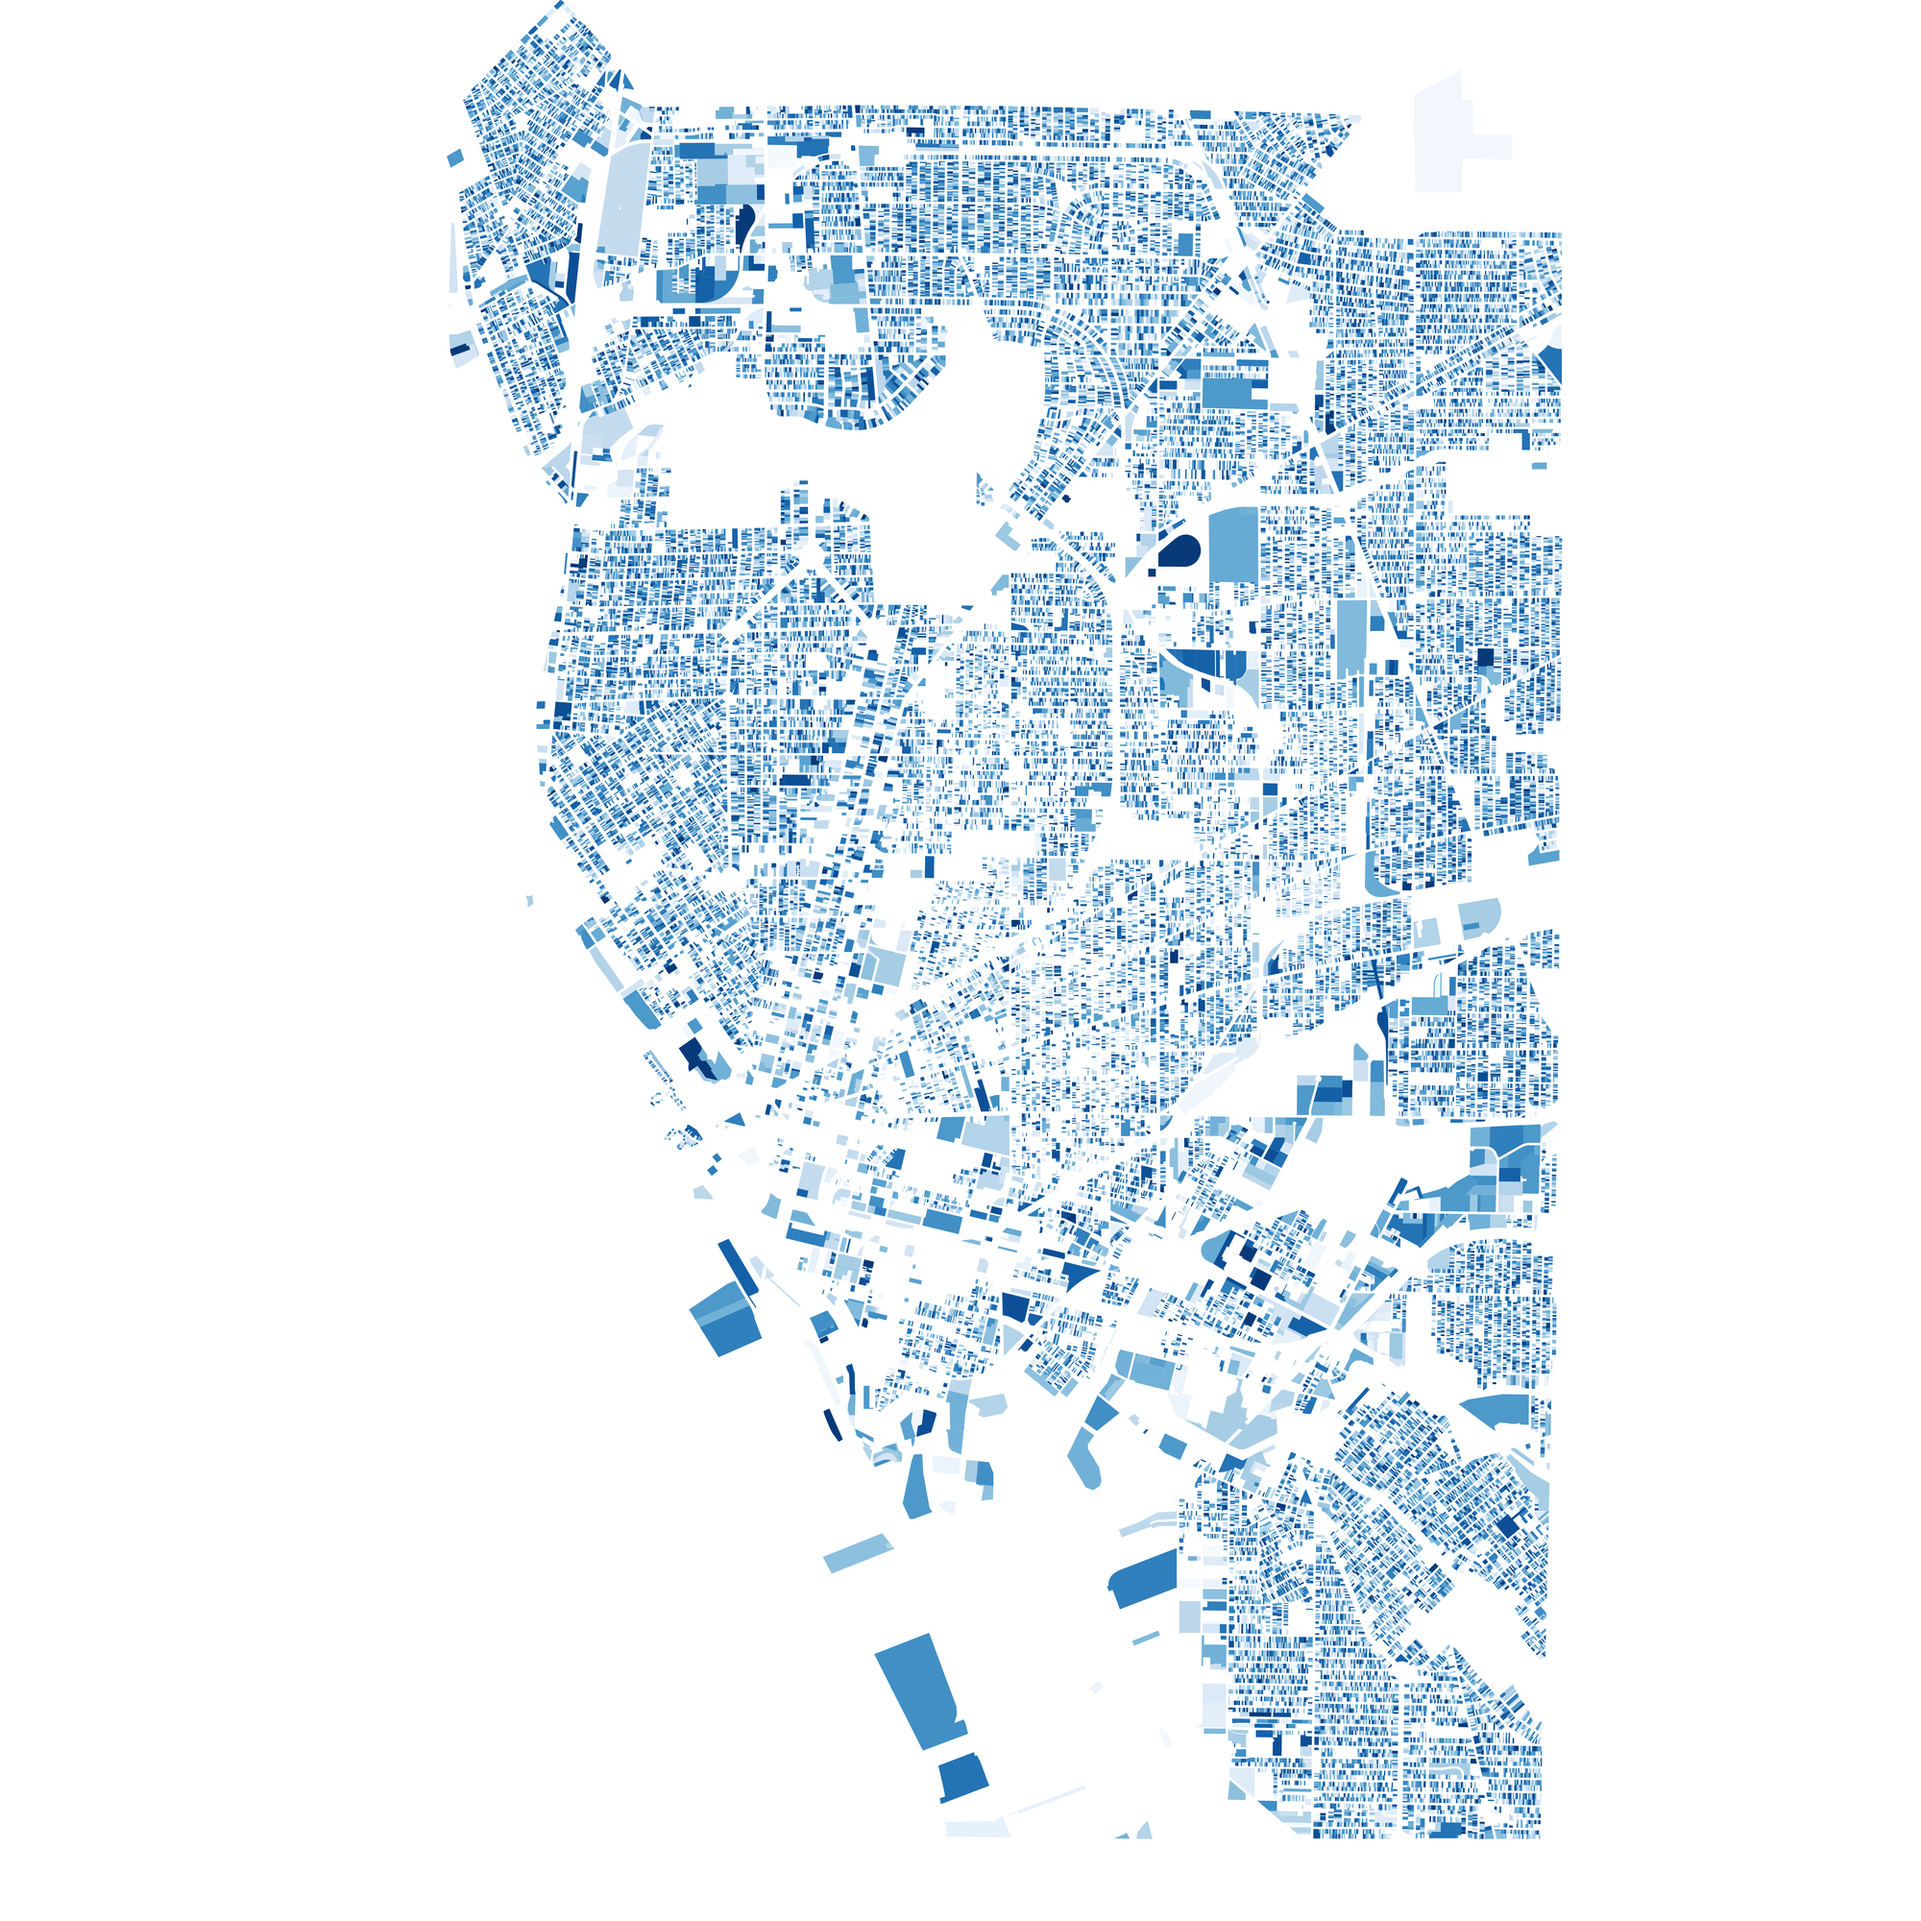
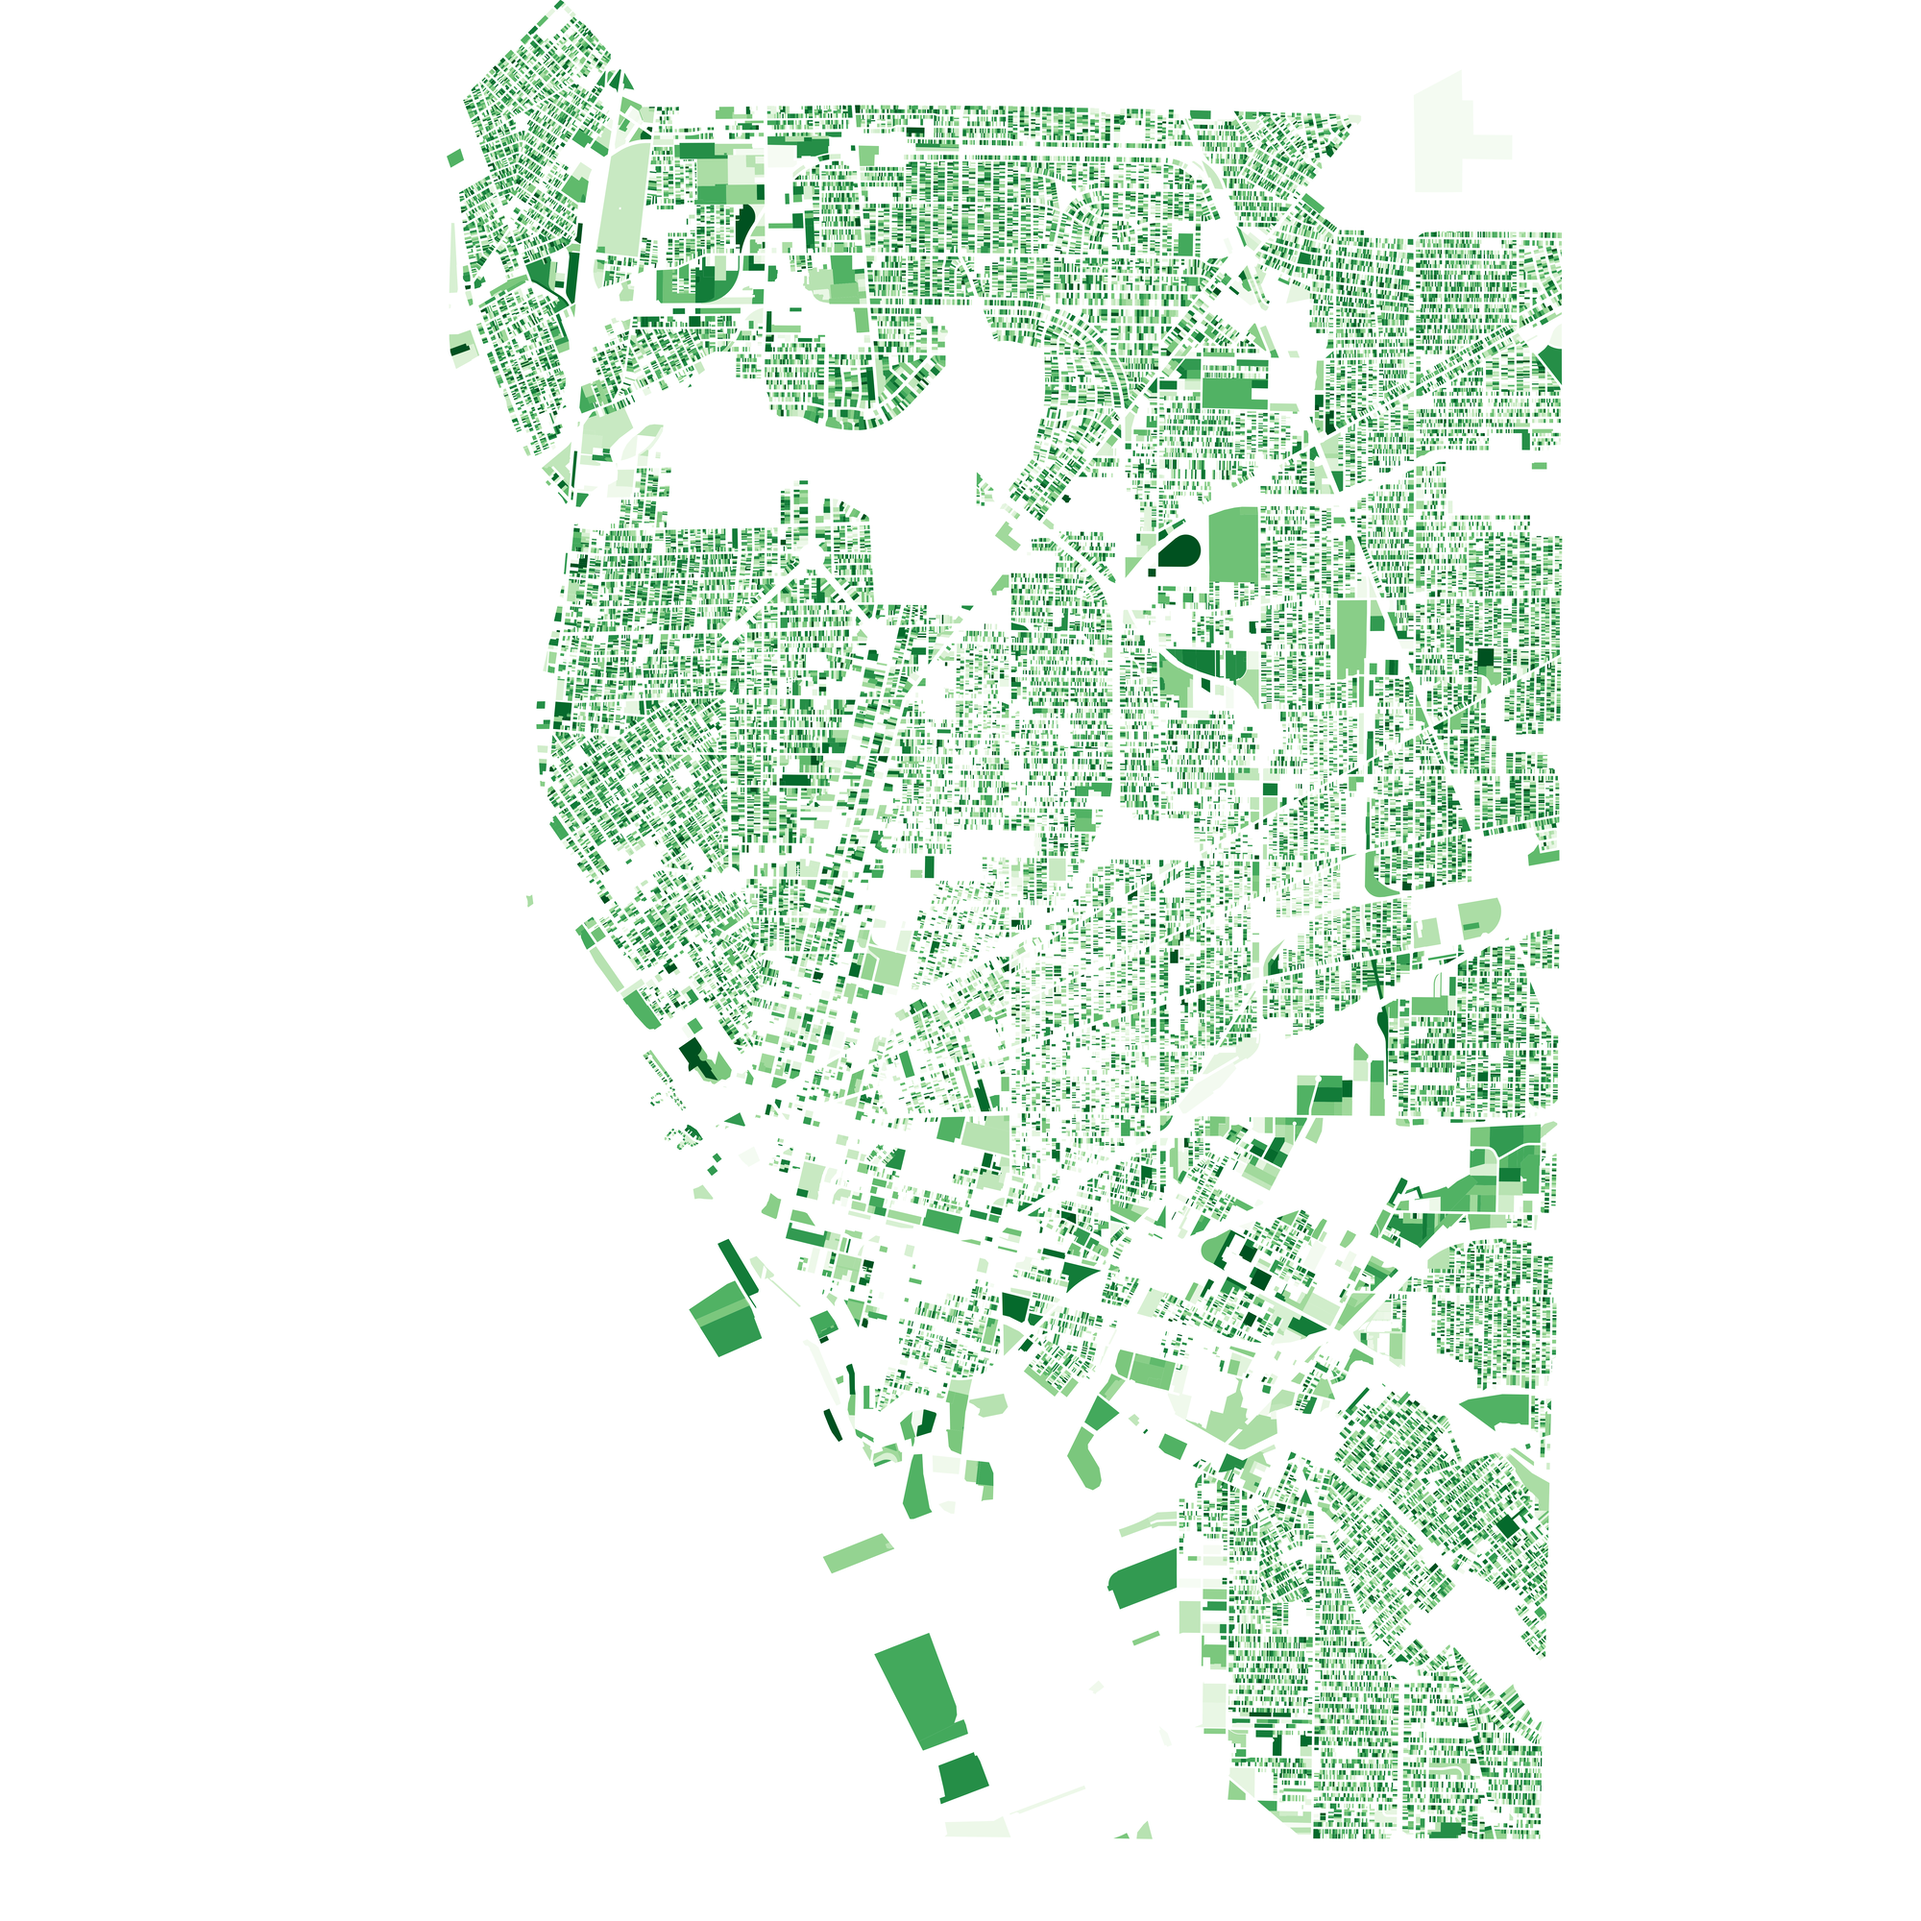
buffalo property page to a working state

Changed region(s): [[0.217, 0.0, 0.837, 0.961], [0.465, 0.837, 0.527, 0.93]]

diff --git a/buffalo-properties/README.md b/buffalo-properties/README.md
@@ -1,19 +1,19 @@
 # Buffalo Property Data
-Buffalo provides great geospacial data through their [open data program](https://data.buffalony.gov/). But, as of this writing, the city does not have a facility to access property assessment data. Luckily, the city's [Online Assessment Role System (OARS)](https://buffalo.oarsystem.com/) provides a lot of tax, assessment and structure information.
+Buffalo provides great geospacial data through their [open data program](https://data.buffalony.gov/). But, as of this writing, the city does not have a facility to access property assessment data. Luckily, the city's [Online Assessment Role System (OARS)](https://buffalo.oarsystem.com/) provides a lot of tax, assessment and structure information. For this page, data was obtained from the **OARS** site in late 2018, then again in late 2019 after the city underwent a reassessment.
 
 ## Buffalo Parcels from Open Data Buffalo
+Here is a map of the raw parcel data obtained from data.buffalony.gov
 ![Map of Parcels from Open Data Buffalo](./scaled/Green_Code_Zoning_2017_data.png)
 
-## Open Data Buffalo Parcels without OARS Data
+And here's a map of those parcels color-coded based on the *use code* pulled from the **OARS** data
+![Map of all buffalo parcels color-coded by OARS use code](./scaled/use-categories.png)
+TODO (categorical legend with counts)
+
+Note some rights of way and various other parcels do not have **OARS** data associated with them:
 ![Map of Open Data Buffalo Parcels without OARS Data](./scaled/no_oars_data.png)
-TODO change this from orange to medium gray.
 
-## All buffalo parcels color-coded by OARS use code
-![Map of all buffalo parcels color-coded by OARS use code](./scaled/all-alias.rsvg-convert.png)
-TODO (categorical legend with counts), change colors to be more logical and use the same medium gray as above.
-
-# Single family homes: Assessed Value
-## Assessed Fair Market Value for single family homes
+## Single family homes: Assessed Value
+### Assessed Fair Market Value for single family homes
 ![Map of single family homes in Buffalo color-coded by Assessed price](./scaled/single-family-assessment.png)
 ```
 cat ./final1.ndjson | ndjson-filter 'd.properties && d.properties.oars_props && d.properties.oars_props.use == "210 - 1 Family Res"' | ndjson-map "parseFloat(d.properties.oars_props.assessment.fmv.replace(/[\$,]/g, ''))" | dtk quantile 100 | tee percentiles/single-family-assessment.txt
@@ -22,7 +22,7 @@ mkgeo-render data/buffalo/oars-2019/final1.ndjson -f 'd.properties && d.properti
 TODO (scale legend has counts)
 ```
 
-## Assessed FMV per sqft for single family homes
+### Assessed FMV per sqft for single family homes
 ![Map of single family homes in Buffalo color-coded by Assessed price per square foot](./scaled/single-family-assessment-per-sqft.png)
 ```
 cat ./final1.ndjson | ndjson-filter 'd.properties && d.properties.oars_props && d.properties.oars_props.use == "210 - 1 Family Res"' | ndjson-map 'parseFloat(d.properties.oars_props.assessment.fmv.replace(/[\$,]/g, "")/d.properties.oars_props.structures[0].total_sqft)' | dtk quantile 100 | tee percentiles/single-family-assessment-per-sqft.txt
@@ -31,30 +31,39 @@ mkgeo-render data/buffalo/oars-2019/final1.ndjson -f 'd.properties && d.properti
 ```
 If you switch back and forth between these two photos, you notice that there are certain areas of the city where price per sqft percentile diverges from price percentile. This wouldn't be true if it always held that "Bigger houses are nicer houses." Here's a map which shows this divergence, i.e. smaller, more desirable houses and larger less desirable houses.
 
-(graph TK TODO)
+(graph TODO)
 
-*TODO* Assessed price per lot sqft (total land assessment divided by acreage)
+### 2019 Assessment change heat map
+Buffalo underwent a city-wide reassessment in 2019. Ultimately, the total fair market value of all properties that we have data for went up 26.8% from $12,899,640,205.00 to $16,353,575,670.50. Of that total, single-family homes made up 29.5% of the total in the new assessment, going up by 20.3% from $4,013,993,150.82 to $4,827,295,224.66.
 
-*TODO* Assessment percentile relative to other properties with same use.
-
-## Assessment change heat map
-Buffalo underwent a city-wide reassessment in 2019. This map shows the percent change in assessed value of single family homes.
+This map shows the percent change in assessed value of single family homes.
 ![Map of single family homes in Buffalo color-coded by percent change in assessed value](./scaled/single-family-assessment-change.png)
 ```
 mkgeo-render data/buffalo/oars-2019/final1_assessment_history.ndjson -f 'd.properties && d.properties.oars_props && d.properties.oars_props.use == "210 - 1 Family Res" && d.properties.oars_props.assessment_2018.fmv && d.properties.oars_props.assessment.fmv' -M mappers/choropleth.js -d "{f: function(d){ return parseFloat(d.properties.oars_props.assessment.fmv.replace(/[\$,]/g, ''))/parseFloat(d.properties.oars_props.assessment_2018.fmv.replace(/[\$,]/g, ''))}, colorScale: d3.scaleSequential(d3.interpolateRdYlGn), minmax: [0.25,1,4]}" --size 8000 -o output/buffalo-properties/single-family-assessment-change
 ```
 
-Ultimately, the total fair market value of all properties that we have data for went up TK% from $TK to $TK. Of that total, single-family homes made up TK% and changed by TK% from $TK to $TK.
+When all property types are added back to the picture, you get a better sense of how (and where) things changed since the last reassessment.
 
-# Historical heatmaps
-## Year Built (red-yellow-green scale)
+#### Relative (percent) Change
+![Map of all properties in Buffalo color-coded by percent change in assessed value](./scaled/all-property-assessment-change.png)
+
+#### Absolute (dollar amount) Change
+![Map of all properties in Buffalo color-coded by dollar amount change in assessed value](./scaled/all-property-assessment-change-abs.png)
+
+
+
+## Historical heatmaps
+### Year Built (red-yellow-green scale)
 ![Map of all buffalo parcels color-coded by year built](./scaled/year-built.png)
 
-## Most Recent Sale
+### Most Recent Sale
 ![Map of all buffalo parcels color-coded by recent sales](./scaled/last_sale_date.png)
+```
+mkgeo-render data/buffalo/oars/join9.ndjson   -f 'd.properties && d.properties.oars_props && d.properties.oars_props.last_sale.date'   -M mappers/choropleth.js   -d "{ f: function(d){ return new Date(Date.parse(d.properties.oars_props.last_sale.date)).getFullYear()}, colorScale: d3.scaleSequential(d3.interpolateGreens), minmax: $(echo -n '['; cat data/buffalo/oars/percentiles/last_sale_date.txt | cut -f 2 | tr '\n' ',' | sed 's|,$|]|') }"   --size 8000   -o output/buffalo-properties/last_sale_date
+```
 
-# Notable Classifications
-## Parcel Size heatmap
+## Notable Classifications
+### Parcel Size heatmap
 ![./lot_size.png](./scaled/lot_size.png)
 Multi-site properties (multiple buildings, not counting garages) (binary - blue/white, or bitmap/white for clickability)
 
@@ -64,15 +73,30 @@ non-house space on lot (percentage on a white to green scale)
 garage map
 map of houses w/more than 5br
 
-# TODO
+## TODO Future work
 * download extra sites for multi-site properties?
-* Weird straight lines on west side in bitmap map. Are these old right of ways that were later made properties?
+* Analyze weird straight lines on west side in bitmap map. Are these old right of ways that were later made properties?
+* Assessed price per lot sqft (total land assessment divided by acreage)
+* Assessment percentile relative to other properties with same use.
+
+categorical map with 1fa homes, schools and green space highlighted
+filter: categorical map with only 1fa homes, schools and greenspace
+* filter: min house br Count
+* score: house location based on total distance to 3 classes of space
+* score: house SIZE
+* score: bathroom Count
+* score: garage, porch, driveway, etc.
+* choropleth: acreage [0,0.05,0.1,0.2,0.4,0.8], sqft, acreage_minus_1st_flr_sqft
+* choropleth: mv$ per acre
+* choropleth: mv$ per bedroom
+
+other thoughts: property acreage slider
+last sale slider
+zip code filter
 
 ![./bitmap2.png](./scaled/bitmap2.png)
 
-
-
-### Issues
+## Issues
 
 ```
 2019-09-17 01:10:54 starting work on street #152: BROADWAY

diff --git a/README.md b/README.md
@@ -1,6 +1,10 @@
 # mkgeo-gallery
-Experiments in visualizing geographic data. Made with mkgeo and public data.
+Experiments in visualizing geographic data. Made with [mkgeo](https://github.com/mkomo/mkgeo) and public data.
 
+## USA
 * [zip code bitmap](./zipbitmap)
 * [bitmaps for different region type](./bitmapus)
 * [choropleth](./choropleth)
+
+## Buffalo, NY
+* [property data](./buffalo-properties)
